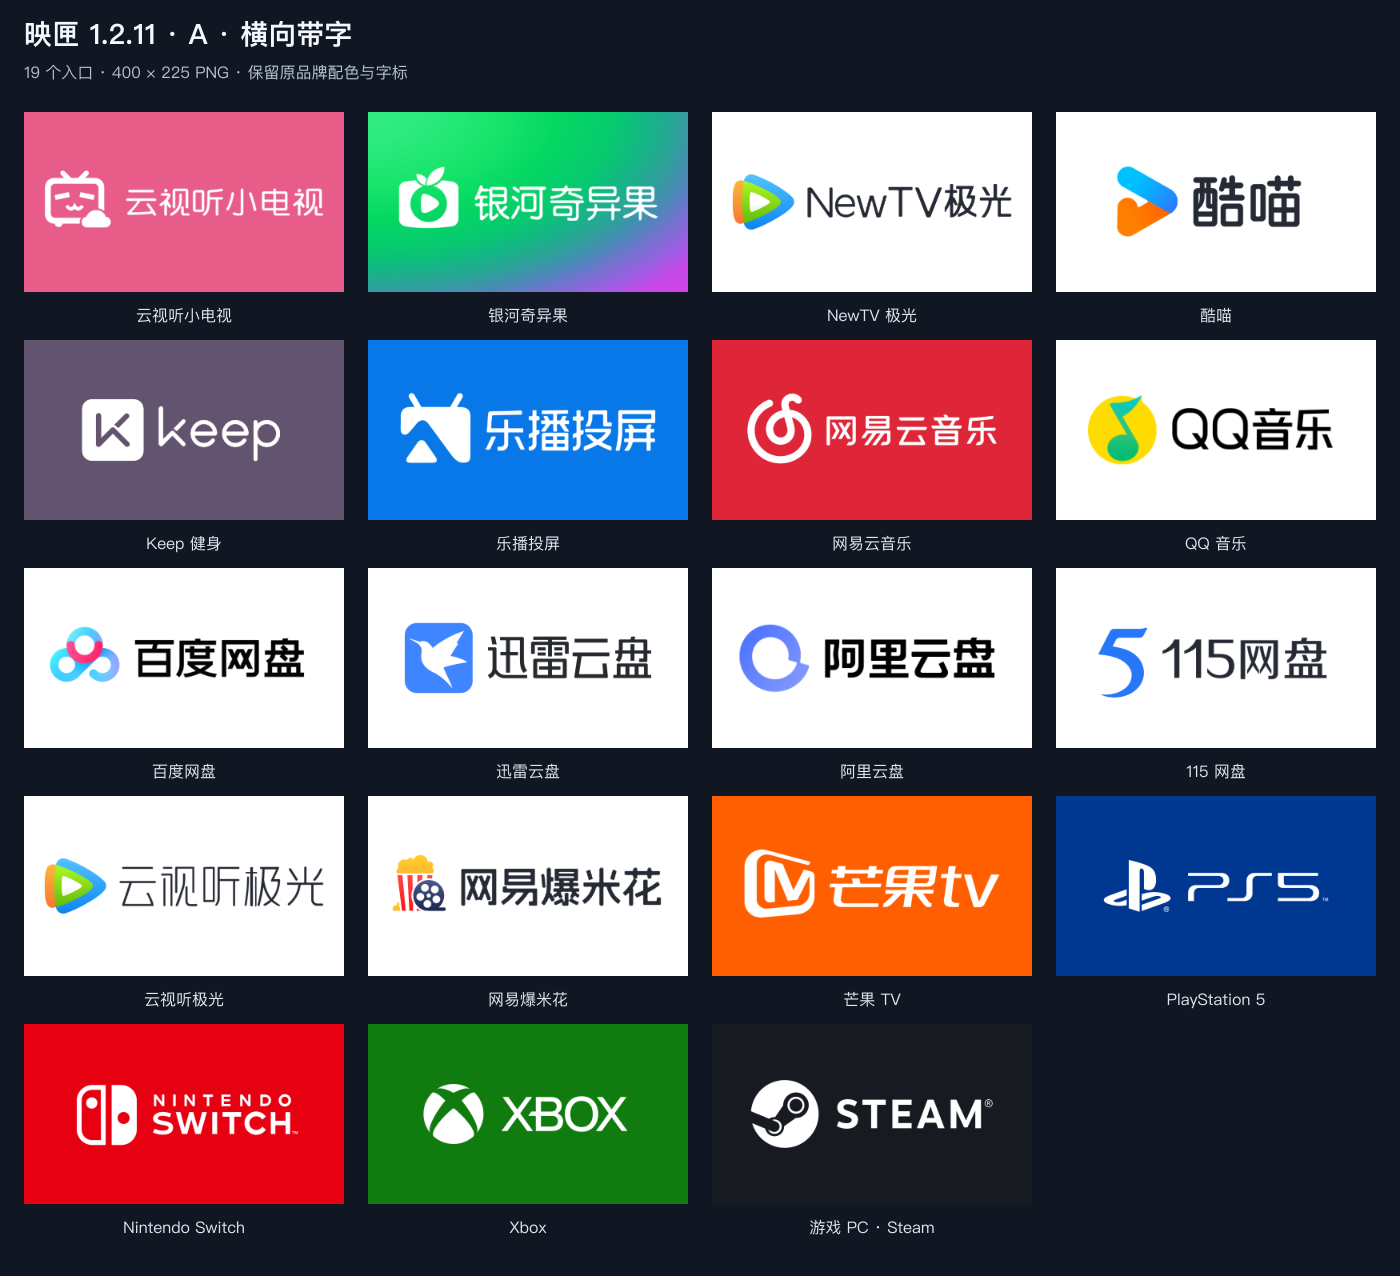
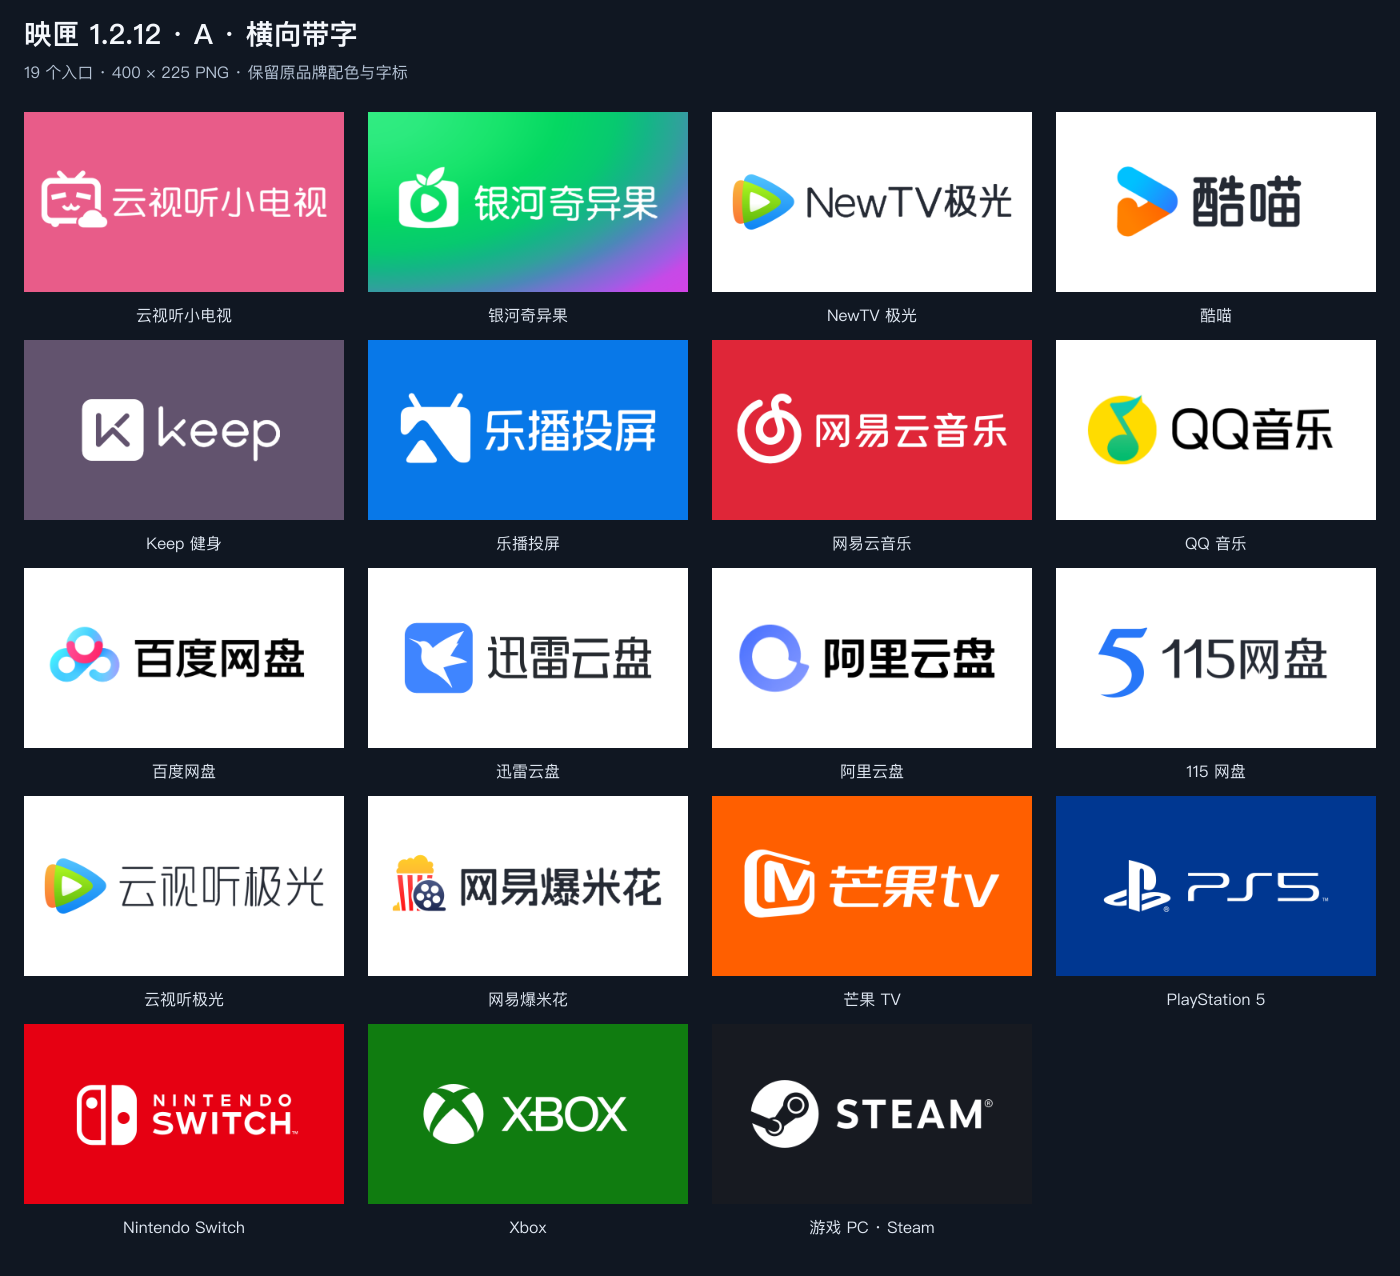
fix: 映匣 1.2.12 云视听小电视、网易云音乐横版字标放大
- 小电视图标仅右下角小云向右凸出，收紧外框间距（30 → 10），字标放大至 1.26 倍
- 网易云音乐横版字标放大至 1.12 倍，图标随整组居中左移
- 两张图片改名为 a_<key>_v1_2_12；更新 README、素材记录与预览

Changed region(s): [[0.5221, 0.3056, 0.7064, 0.3668], [0.0307, 0.1223, 0.2457, 0.1834], [0.1229, 0.0, 0.2457, 0.0611]]

diff --git a/README.md b/README.md
@@ -63,7 +63,7 @@ CineDock 是为 [Projectivy Launcher](https://github.com/spocky/miproja1) 制作
 
 图标包支持 Android 5.0 及以上。自定义卡片图标需使用支持该功能的 **Projectivy Premium**；其他启动器的兼容性未验证。
 
-1. 按下文构建，取得 `dist/CineDock-1.2.11.apk`。
+1. 按下文构建，取得 `dist/CineDock-1.2.12.apk`。
 2. 通过 U 盘、SD 卡、局域网文件传输或 ADB 将 APK 放到电视上，用文件管理器打开安装。若系统提示，允许该文件管理器安装应用。
 3. 打开 Projectivy，先完成下方的关闭着色设置，再选择图标。
 
@@ -180,7 +180,7 @@ tests/                            # 独立 Android 兼容性检查应用
 
 ```sh
 python3 tools/build_probe.py
-adb -s <测试设备序列号> install -r dist/CineDock-1.2.11.apk
+adb -s <测试设备序列号> install -r dist/CineDock-1.2.12.apk
 adb -s <测试设备序列号> install -r build/probe/probe.apk
 adb -s <测试设备序列号> shell am start -n com.redwinam.cinedock.probe/.ProbeActivity
 ```
@@ -195,6 +195,7 @@ adb -s <测试设备序列号> shell run-as com.redwinam.cinedock.probe cat file
 
 ## 版本记录
 
+- **1.2.12**：云视听小电视横版字标放大（收紧被小云撑大的间距）；网易云音乐横版字标放大。
 - **1.2.11**：云视听小电视横版图标单独放大，与另外三张看起来同高。
 - **1.2.10**：上述四张横版卡片的图标再放大一点；两个极光收紧图标与字标的间距。
 - **1.2.9**：上述四张横版卡片的图标再放大一点；云视听小电视横版字标放大。
